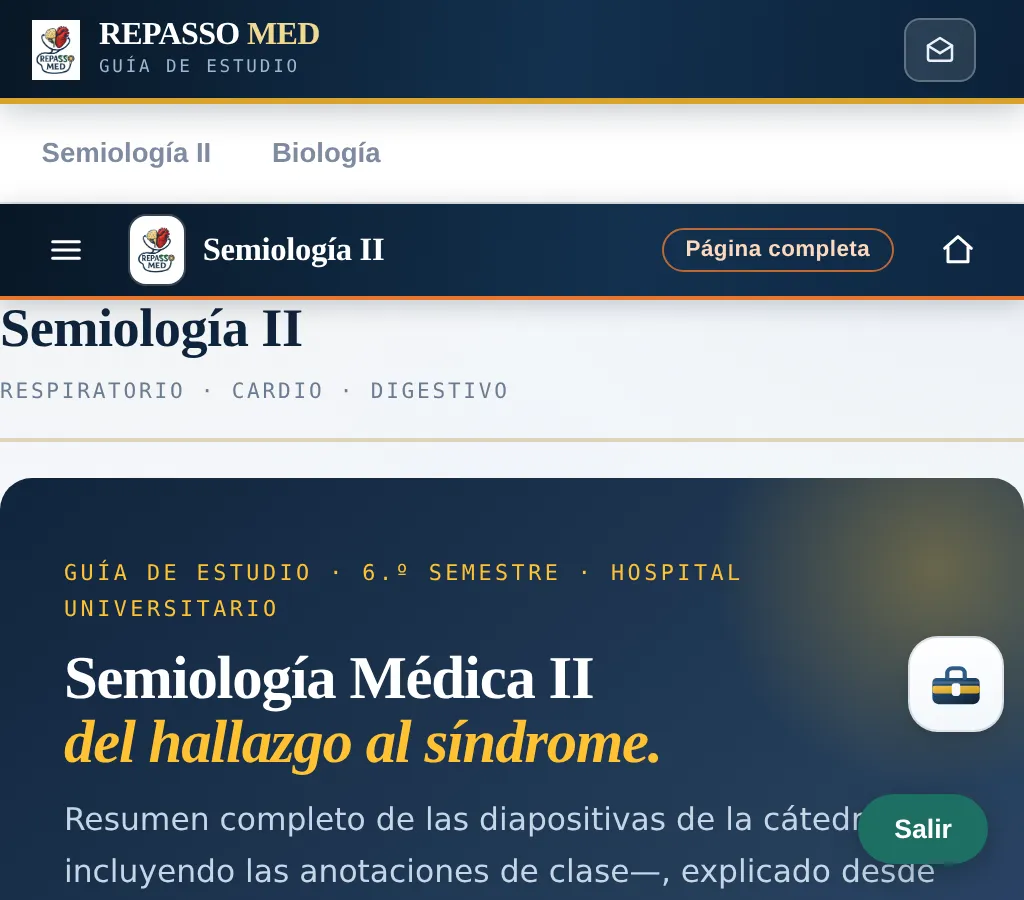
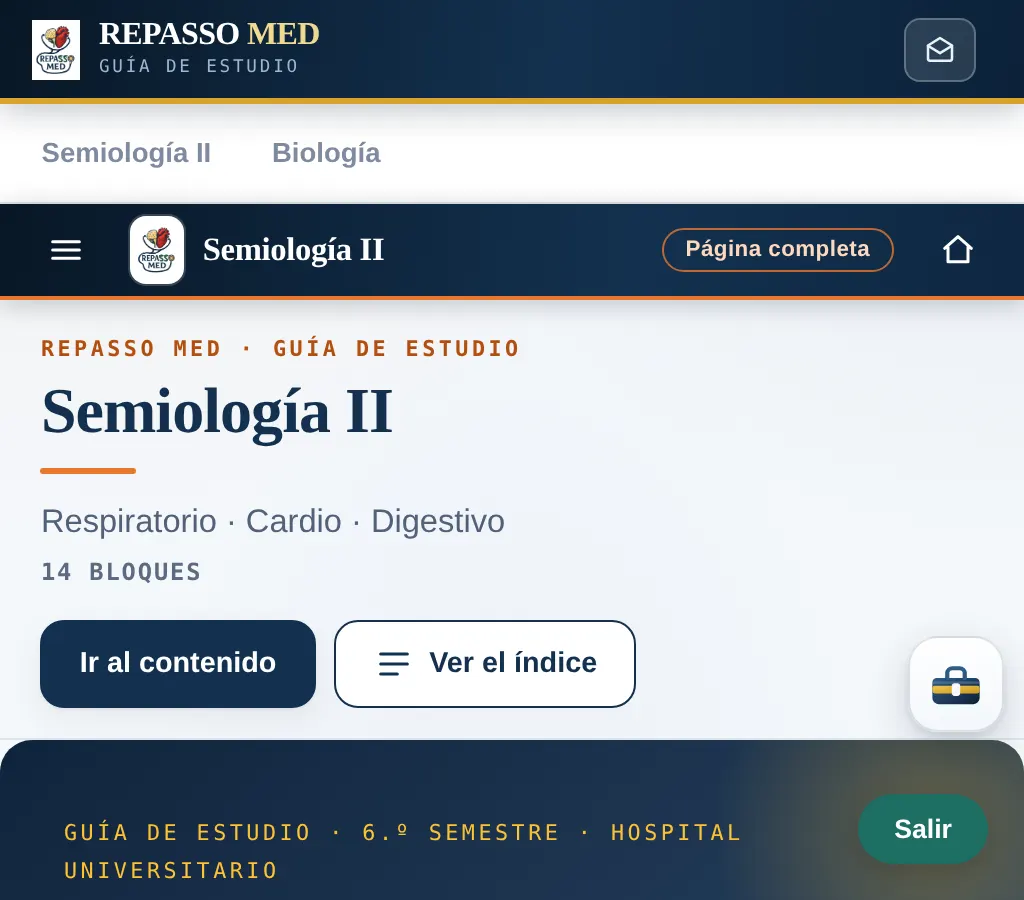
Layout V2 B1: capa da matéria e slot de arte em código, tokens navy/branco/laranja, lateral refinada; teste cover e capturas
Capa (h1 serifado, subtítulo, ações por teclado/mouse) no lugar do header gerado pelo app-core, fora de section[id] e sob [data-rm-ui]; slot hero vazio/oculto até haver arquivo (aspect-ratio reservado, object-fit, srcset, estados cargando/listo/error, 0 deslocamento). Sem ilustração improvisada, sem progresso/gamificação. cover.test.cjs 102/102.

Claude-Session: https://claude.ai/code/session_0128CZp51oRNeCJLjDtDJGUq

diff --git a/Repasso-Med-Site--main/Atual - Copia/assets/rm-layout.js b/Repasso-Med-Site--main/Atual - Copia/assets/rm-layout.js
@@ -414,6 +414,58 @@
     return { band: band, hamb: hamb, chip: chip, mat: mat };
   }
 
+  /* ------------------- capa da matéria + SLOTS de arte -------------------
+     A capa é CÓDIGO (HTML/CSS/JS): título, subtítulo, ações e o container da arte. Nada aqui é imagem de texto, e a ARTE FINAL
+     (banner/ilustração autoral da Semiología II) é produzida à parte e integrada depois: o slot só reserva o espaço.
+     SLOT `hero`: enquanto ASSETS.hero for null o container fica `hidden` (estado «vacío», 0 px, sem desenho improvisado);
+     quando houver arquivo, basta preencher o objeto — não é preciso reconstruir o layout:
+       ASSETS.hero = { src: 'assets/semio2/hero-1x.webp', srcset: 'assets/semio2/hero-1x.webp 1x, assets/semio2/hero-2x.webp 2x',
+                       w: 1600, h: 900, alt: 'texto alternativo', pos: '50% 40%' }
+     `w`/`h` reservam o espaço (aspect-ratio ⇒ 0 deslocamento ao carregar); `object-fit: cover` preserva a proporção (sem
+     deformar) e `pos` escolhe o recorte; `srcset` entrega nitidez em retina/tablet. Estados: cargando (esqueleto neutro) →
+     listo; error ⇒ o slot colapsa (sem ícone de imagem quebrada). Também dá para chamar RMLayout.setAsset('hero', spec). */
+  var ASSETS = { hero: null };
+
+  function renderArte(slot) {
+    if (!S || !S.arte) return;
+    var fig = S.arte, spec = ASSETS[slot];
+    while (fig.firstChild) fig.removeChild(fig.firstChild);
+    S.capa.classList.remove('has-art');
+    if (!spec || !spec.src) { fig.hidden = true; fig.setAttribute('data-state', 'vacio'); return; }
+    var w = +spec.w || 16, h = +spec.h || 9;
+    var frame = ui('div', 'rm-l2-art-frame'); frame.style.aspectRatio = w + ' / ' + h;
+    var im = ui('img', 'rm-l2-art-img', { alt: spec.deco ? '' : (spec.alt || ''), width: String(w), height: String(h), decoding: 'async', fetchpriority: 'high' });
+    if (spec.deco) im.setAttribute('role', 'presentation');
+    if (spec.pos) im.style.objectPosition = spec.pos;
+    if (spec.srcset) im.setAttribute('srcset', spec.srcset);
+    if (spec.sizes) im.setAttribute('sizes', spec.sizes);
+    fig.hidden = false; fig.setAttribute('data-state', 'cargando'); S.capa.classList.add('has-art');
+    var tok = S, listo = function () { if (S === tok && S.arte === fig) fig.setAttribute('data-state', 'listo'); };
+    im.addEventListener('load', listo);
+    im.addEventListener('error', function () { if (S === tok && S.arte === fig) { fig.hidden = true; fig.setAttribute('data-state', 'error'); S.capa.classList.remove('has-art'); } });
+    im.src = spec.src;
+    frame.appendChild(im); fig.appendChild(frame);
+    if (im.complete && im.naturalWidth > 0) listo();
+  }
+
+  function montarCapa(cat, bl) {
+    var capa = ui('div', 'rm-l2-cover', { role: 'region', 'aria-label': 'Presentación de la materia' });
+    var cuerpo = ui('div', 'rm-l2-cover-body');
+    var eb = ui('p', 'rm-l2-eyebrow'); eb.textContent = 'Repasso Med · Guía de estudio';
+    var h1 = ui('h1', 'rm-l2-cover-title'); h1.textContent = cat.title || 'Semiología II';
+    cuerpo.appendChild(eb); cuerpo.appendChild(h1);
+    if (cat.sub) { var sb = ui('p', 'rm-l2-cover-sub'); sb.textContent = cat.sub; cuerpo.appendChild(sb); }
+    var meta = ui('p', 'rm-l2-cover-meta'); meta.textContent = bl.length + ' bloques'; cuerpo.appendChild(meta);
+    var acc = ui('div', 'rm-l2-cover-actions');
+    var go = ui('button', 'rm-l2-btn rm-l2-btn-primary', { type: 'button', 'data-act': 'go' }); go.textContent = 'Ir al contenido';
+    var ix = ui('button', 'rm-l2-btn rm-l2-btn-ghost rm-l2-btn-idx', { type: 'button', 'data-act': 'idx' });
+    ix.appendChild(svg('index')); var il = el('span'); il.textContent = 'Ver el índice'; ix.appendChild(il);
+    acc.appendChild(go); acc.appendChild(ix); cuerpo.appendChild(acc);
+    var arte = ui('figure', 'rm-l2-art', { 'data-slot': 'hero', 'data-state': 'vacio' }); arte.hidden = true;
+    capa.appendChild(cuerpo); capa.appendChild(arte);
+    return { capa: capa, arte: arte };
+  }
+
   /* ------------------------------ lateral ------------------------------- */
   function item(icon, label, cls, attrs) {
     var b = ui('button', 'rm-l2-item ' + (cls || ''), Object.assign({ type: 'button', title: label }, attrs || {}));
@@ -620,6 +672,11 @@
       hamb: function () { if (S.drawer) fecharDrawer(); else abrirDrawer(); },
       back: function () { fecharDrawer(true); },
       mat: function () { try { window.scrollTo({ top: 0, behavior: 'smooth' }); } catch (x) { window.scrollTo(0, 0); } },
+      capa: function (e) {
+        var b = e.target && e.target.closest && e.target.closest('[data-act]'); if (!b || !S) return;
+        if (b.getAttribute('data-act') === 'go') { if (S.blocos[0]) irPara(S.blocos[0].sec); }
+        else if (b.getAttribute('data-act') === 'idx') { if (lmode() === 'docked') { S.lat.tog && S.lat.tog.focus(); } else abrirDrawer(); }
+      },
       raiz: function (e) { if (e.target.closest && e.target.closest('[data-view]')) window.RMModes.requestView('full'); }
     };
     S.side.addEventListener('click', S.h.lat);
@@ -627,6 +684,7 @@
     S.backdrop.addEventListener('click', S.h.back);
     S.mat.addEventListener('click', S.h.mat);
     S.rootEl.addEventListener('click', S.h.raiz);
+    S.capa.addEventListener('click', S.h.capa);
     window.addEventListener('resize', S.h.resize);
     window.addEventListener('orientationchange', S.h.resize);
     window.addEventListener('scroll', S.h.scroll, { passive: true });
@@ -642,6 +700,7 @@
     S.backdrop.removeEventListener('click', h.back);
     S.mat.removeEventListener('click', h.mat);
     S.rootEl.removeEventListener('click', h.raiz);
+    if (S.capa) S.capa.removeEventListener('click', h.capa);
     window.removeEventListener('resize', h.resize);
     window.removeEventListener('orientationchange', h.resize);
     window.removeEventListener('scroll', h.scroll);
@@ -668,6 +727,12 @@
     var lat = montarLateral(tab, bl); S.lat = lat; S.side = lat.side; S.railBtn = lat.railBtn;
     S.backdrop = ui('div', 'rm-l2-backdrop');
     var raiz = montarRaiz(); S.rootEl = raiz.root; S.titulo = raiz.titulo;
+    var cp = montarCapa(cat, bl); S.capa = cp.capa; S.arte = cp.arte;
+    var cab = tab.querySelector(':scope > .rm-subject-head');       // header gerado pelo app-core (não é conteúdo): a capa o substitui no piloto
+    if (cab && cab.parentNode) cab.parentNode.insertBefore(S.capa, cab.nextSibling);
+    else { var s1 = tab.querySelector('section'); (s1 ? s1.parentNode : tab).insertBefore(S.capa, s1 || tab.firstChild); }
+    ROOT.setAttribute('data-rm-cover', '');
+    renderArte('hero');
     S.player = ui('div', 'rm-l2-player', { id: 'rm-l2-player', role: 'region', 'aria-label': 'Audiobook', hidden: '' });   // slot futuro, 0 px
 
     var cont = document.getElementById('materias-container');
@@ -697,8 +762,8 @@
        por cima da matéria que o aluno está abrindo. O RMModes.detach() abaixo
        só zera o estado; a classe rm-l2 sai e o conteúdo reaparece sozinho. */
     desligar();
-    [S.band, S.ph, S.side, S.backdrop, S.rootEl, S.player].forEach(function (n) { if (n && n.parentNode) n.parentNode.removeChild(n); });
-    ['data-rm-lmode', 'data-rm-dock', 'data-rm-drawer'].forEach(function (a) { ROOT.removeAttribute(a); });
+    [S.band, S.ph, S.side, S.backdrop, S.rootEl, S.player, S.capa].forEach(function (n) { if (n && n.parentNode) n.parentNode.removeChild(n); });
+    ['data-rm-lmode', 'data-rm-dock', 'data-rm-drawer', 'data-rm-cover'].forEach(function (a) { ROOT.removeAttribute(a); });
     ROOT.style.removeProperty('--rm-band-bottom'); ROOT.style.removeProperty('--rm-band-top');
     ROOT.classList.remove('rm-l2');
     try { window.RMModes.detach(); } catch (e) {}
@@ -711,6 +776,8 @@
   window.RMLayout = {
     attach: attach,
     detach: detach,
+    ASSETS: ASSETS,                                          // slots de arte (hoje vazios): ver «capa da matéria + SLOTS de arte»
+    setAsset: function (slot, spec) { ASSETS[slot] = spec || null; renderArte(slot); },
     assentarTinta: assentarTinta,                            // usado por rm-modes.js ao voltar à Página completa
     pedirReposicao: function () { reposicionarTinta(); },    // idem: único caminho até RMToolsV2.reposicionar (coalescido, nunca durante o contato da caneta)
     /* só leitura, para teste/diagnóstico */

diff --git a/Repasso-Med-Site--main/Atual - Copia/assets/rm-layout.css b/Repasso-Med-Site--main/Atual - Copia/assets/rm-layout.css
@@ -28,8 +28,10 @@ html.rm-l2 {
   --rm-safe-b: env(safe-area-inset-bottom, 0px);
   --rm-band-top: 0px;                   /* medido por JS: topo da faixa na viewport */
   --rm-band-bottom: 44px;               /* medido por JS: fundo da faixa na viewport */
-  --l2-navy: #13314f; --l2-deep: #081726; --l2-gold: #d8a32a; --l2-orange: #e8772e; --l2-ink: #1b2b3d;
+  --l2-navy: #13314f; --l2-deep: #081726; --l2-gold: #d8a32a; --l2-orange: #e8772e; --l2-orange-ink: #b34e0f; --l2-ink: #1b2b3d; --l2-muted: #52627a;
   --l2-rule: #dde5ee; --l2-tint: #edf2f8;
+  /* sistema único de forma e sombra (cards, botões, slots): raio e elevação sutil iguais em todo o shell */
+  --l2-radius: 12px; --l2-shadow: 0 1px 2px rgba(8,23,38,.06), 0 6px 18px rgba(8,23,38,.06);
   --l2-fig: #2563a8; --l2-quiz: #b7791f; --l2-fc: #7c3aed; --l2-aud: #0f766e; --l2-vid: #c2410c;
 
   /* o site mede a altura fixa do topo por estas duas variáveis
@@ -128,7 +130,7 @@ html.rm-l2[data-rm-lmode="docked"] .rm-l2-hamb { display: none; }
   position: fixed; left: 0; top: var(--rm-band-bottom, 44px); bottom: 0;
   width: var(--rm-left-w); z-index: 360;
   display: flex; flex-direction: column; box-sizing: border-box; overflow: hidden;
-  background: #fff; border-right: 1px solid var(--l2-rule);
+  background: #fff; border-right: 1px solid var(--l2-rule); box-shadow: 6px 0 24px rgba(8,23,38,.035);
   font-family: var(--font-ui, system-ui, sans-serif); color: var(--l2-ink);
 }
 .rm-l2-side-head { flex: 0 0 auto; display: flex; justify-content: flex-end; padding: .25rem .35rem 0; }
@@ -227,7 +229,8 @@ html.rm-l2[data-rm-lmode="rail"] .rm-l2-side:not(.is-open) .rm-l2-side-head { ju
 
 /* foco visível em tudo */
 .rm-l2-band button:focus-visible, .rm-l2-side button:focus-visible, .rm-l2-side a:focus-visible,
-.rm-l2-mode-root button:focus-visible { outline: 3px solid #ffc233; outline-offset: 2px; }
+.rm-l2-mode-root button:focus-visible, .rm-l2-cover button:focus-visible { outline: 3px solid var(--l2-orange); outline-offset: 2px; }
+.rm-l2-band button:focus-visible { outline-color: #ffb27a; }   /* sobre o navy da faixa */
 
 /* ---------------------------------------------------------------------
    6 · MODOS ISOLADOS (B1: painel vazio) — fora da Página completa o
@@ -247,14 +250,74 @@ html.rm-l2[data-rm-view]:not([data-rm-view="full"]) #materias-container .rm-hl {
 html.rm-l2[data-rm-view]:not([data-rm-view="full"]) .rm-l2-tree { display: none; }
 
 .rm-l2-empty {
-  padding: 2rem 1.6rem; border: 1px dashed #b9c7d8; border-radius: 16px; background: #f8fafc; text-align: center;
+  padding: 2rem 1.6rem; border: 1px dashed #b9c7d8; border-radius: var(--l2-radius); background: #f8fafc; text-align: center;
   font-family: var(--font-ui, system-ui, sans-serif);
 }
 .rm-l2-empty-t { font: 800 1.35rem var(--font-display, Georgia, serif); color: var(--l2-navy); margin-bottom: .6rem; }
 .rm-l2-empty-p { color: #41505f; font-size: .95rem; line-height: 1.55; max-width: 34rem; margin: 0 auto 1.1rem; }
 .rm-l2-empty-back {
-  min-height: 44px; padding: 0 1.2rem; border: 0; border-radius: 12px; cursor: pointer;
-  background: linear-gradient(120deg, var(--l2-navy), #1d4a75); color: #fff; font: 700 .88rem var(--font-ui, system-ui, sans-serif);
+  min-height: 44px; padding: 0 1.2rem; border: 0; border-radius: var(--l2-radius); cursor: pointer;
+  background: var(--l2-navy); color: #fff; font: 700 .88rem var(--font-ui, system-ui, sans-serif);
+}
+
+/* ---------------------------------------------------------------------
+   9 · CAPA DA MATÉRIA + SLOT DE ARTE (código; a arte final vem de fora)
+       O header gerado pelo app-core (.rm-subject-head: só título e subtítulo, não é conteúdo) é substituído pela capa;
+       o hero escuro e todas as seções da matéria ficam intactos logo abaixo.
+   --------------------------------------------------------------------- */
+html.rm-l2[data-rm-cover] #materias-container > .tab-content > .rm-subject-head { display: none; }
+.rm-l2-cover {
+  box-sizing: border-box; max-width: 880px; margin: 0 auto;
+  padding: clamp(1.1rem, 3.2vw, 2rem) clamp(1rem, 4vw, 2rem) clamp(.9rem, 2vw, 1.4rem);
+  display: grid; grid-template-columns: minmax(0, 1fr); gap: 1.1rem 2rem; align-items: center;
+  font-family: var(--font-ui, system-ui, sans-serif); color: var(--l2-ink);
+  border-bottom: 1px solid var(--l2-rule);
+}
+.rm-l2-cover-body { min-width: 0; }
+.rm-l2-eyebrow { margin: 0 0 .55rem; font: 700 .68rem var(--font-mono, ui-monospace, monospace); letter-spacing: .16em; text-transform: uppercase; color: var(--l2-orange-ink); }
+.rm-l2-cover-title {
+  margin: 0; font: 800 clamp(2rem, 5.2vw, 2.9rem)/1.04 var(--font-display, Georgia, serif); letter-spacing: -.015em; color: var(--l2-navy);
+  overflow-wrap: anywhere;
+}
+.rm-l2-cover-title::after { content: ""; display: block; width: 48px; height: 3px; margin-top: .7rem; border-radius: 2px; background: var(--l2-orange); }
+.rm-l2-cover-sub { margin: .8rem 0 0; font: 500 1.02rem/1.45 var(--font-ui, system-ui, sans-serif); color: var(--l2-muted); }
+.rm-l2-cover-meta { margin: .35rem 0 0; font: 600 .74rem var(--font-mono, ui-monospace, monospace); letter-spacing: .08em; text-transform: uppercase; color: #5b6b80; }
+.rm-l2-cover-actions { display: flex; flex-wrap: wrap; gap: .6rem; margin-top: 1.1rem; }
+.rm-l2-btn {
+  display: inline-flex; align-items: center; justify-content: center; gap: .5rem; min-height: 44px; padding: 0 1.15rem; box-sizing: border-box;
+  border-radius: var(--l2-radius); border: 1.5px solid var(--l2-navy); cursor: pointer; font: 700 .9rem var(--font-ui, system-ui, sans-serif);
+  transition: background-color .15s, box-shadow .15s, transform .15s;
+}
+.rm-l2-btn-primary { background: var(--l2-navy); color: #fff; box-shadow: var(--l2-shadow); }
+.rm-l2-btn-primary:hover { background: #0e2740; }
+.rm-l2-btn-ghost { background: #fff; color: var(--l2-navy); }
+.rm-l2-btn-ghost:hover { background: var(--l2-tint); }
+.rm-l2-btn:active { transform: translateY(1px); }
+/* o índice já está à vista quando a lateral está docked */
+html.rm-l2[data-rm-lmode="docked"] .rm-l2-btn-idx { display: none; }
+
+/* slot de arte: reservado só quando existe arquivo (estado «vacío» = hidden = 0 px) */
+.rm-l2-art { margin: 0; min-width: 0; }
+.rm-l2-art[hidden] { display: none; }
+.rm-l2-art-frame {
+  position: relative; width: 100%; overflow: hidden; border-radius: var(--l2-radius); background: var(--l2-tint);
+  box-shadow: var(--l2-shadow); max-height: 340px;
+}
+.rm-l2-art-img { position: absolute; inset: 0; width: 100%; height: 100%; object-fit: cover; display: block; opacity: 0; transition: opacity .25s; }
+.rm-l2-art[data-state="listo"] .rm-l2-art-img { opacity: 1; }
+.rm-l2-art[data-state="cargando"] .rm-l2-art-frame { background: linear-gradient(100deg, var(--l2-tint) 30%, #f7f9fc 50%, var(--l2-tint) 70%); background-size: 220% 100%; }
+@media (prefers-reduced-motion: no-preference) {
+  .rm-l2-art[data-state="cargando"] .rm-l2-art-frame { animation: rm-l2-skel 1.4s linear infinite; }
+}
+@keyframes rm-l2-skel { from { background-position: 120% 0; } to { background-position: -120% 0; } }
+/* com arte: mobile = arte em cima do texto; ≥ 1000 px = duas colunas */
+.rm-l2-cover.has-art .rm-l2-art { order: -1; }
+@media (min-width: 1000px) {
+  .rm-l2-cover.has-art { grid-template-columns: minmax(0, 1.05fr) minmax(0, .95fr); }
+  .rm-l2-cover.has-art .rm-l2-art { order: 0; }
+}
+@media (max-width: 440px) {
+  .rm-l2-cover-actions .rm-l2-btn { flex: 1 1 100%; }
 }
 
 /* ---------------------------------------------------------------------

diff --git a/tools/qa/browser-qa/layout/README.md b/tools/qa/browser-qa/layout/README.md
@@ -111,3 +111,36 @@ antes de o pendente executar, E4 matéria sai antes de a caneta levantar) · F `
 H `irPara(A)→irPara(B)` (0 rolagens dirigidas a A depois do clique em B) · I `irPara()` → sair da matéria. 1440 e 390 (a caneta, só em
 1440). **Validado por mutação:** com o `rm-layout.js/rm-modes.js` do HEAD auditado `94006e54` o teste reprova com 50 falhas; com a
 correção, 107/107. Os eventos de caneta são **sintéticos** (`PointerEvent` `pointerType=pen`): provam o caminho de código, não o hardware.
+
+## Etapa 2 — capa da matéria + slot de arte + acabamento (tudo em código) — `cover.test.cjs`
+
+```bash
+export NODE_PATH=$(npm root -g)     # ou RM_PLAYWRIGHT=/caminho/do/modulo
+node tools/qa/browser-qa/layout/cover.test.cjs
+```
+**Divisão de responsabilidades:** o Layout (este código) cuida de estrutura, navegação, hierarquia, tipografia, cores, espaçamento,
+responsividade, estados, abertura/fechamento, posição das imagens e nitidez da UI — em HTML/CSS/JS, nada vira imagem. A arte autoral
+(banners/ilustrações da Semiología II) é produzida fora (ChatGPT → José → integração aqui). **Nenhuma ilustração foi criada.**
+
+- **Capa** (`.rm-l2-cover`, `[data-rm-ui]`, sem ids, filha da aba e irmã das seções — nunca dentro de `section[id]`): eyebrow «Repasso Med ·
+  Guía de estudio», `h1` serifado «Semiología II», subtítulo, «N bloques», ações «Ir al contenido» (1º bloco sob a faixa) e «Ver el
+  índice» (só quando a lateral não está docked). Substitui, no piloto, o `.rm-subject-head` gerado pelo app-core (mesmo título e
+  subtítulo); o hero de **conteúdo** da matéria e todas as seções ficam intactos. Em modo isolado a capa some; `detach()` a remove e
+  devolve o header original.
+- **Slot de arte `hero`** (`RMLayout.ASSETS.hero` / `RMLayout.setAsset('hero', spec)`): hoje **vazio e `hidden`** (0 px, sem caixa vazia nem
+  desenho improvisado). Com arquivo: `w`/`h` reservam o espaço (`aspect-ratio` ⇒ 0 deslocamento), `object-fit: cover` + `pos` (sem
+  deformar), `srcset`/`sizes` (retina/tablet), `fetchpriority=high`, estados `cargando` (esqueleto neutro) → `listo`; `error` (404) ⇒ colapsa.
+  ≥ 1000 px: duas colunas (arte à direita); abaixo: arte em cima do texto; altura máx. 340 px.
+- **Tokens únicos** (`--l2-radius`, `--l2-shadow`, navy/branco/laranja da marca; laranja-texto `#b34e0f` = 5,2:1 sobre branco) para capa, botões, slot e
+  painel de modos; foco visível laranja (navy sobre claro) e alvos ≥ 44 px. Sem progresso, percentual, streak, plano, calendário,
+  gamificação ou recomendação (verificado no teste).
+- Lateral (minimizável, trilho, drawer, hierarquia matéria → bloco → tema, Volver arriba, Sugerencias, Banco, Todos los flashcards):
+  **funcionalidade intacta** (suíte B1 176/176); só elevação sutil e foco.
+
+### Evidências — o que é o quê
+| | |
+|---|---|
+| **TESTADO AUTOMATICAMENTE** (Chromium emulado, harness real) | `cover` 102 · `race` 107 · `ink-jump` 54 · `layout` 183 · B1 176 (neutralidade de índice/IDs/125 highlights). 320 · 390 · 768 · 1024 · 1440 · 1600 · 1920, zoom 200 %, rotação, teclado (Enter/foco), contraste, slot (vazio/cargando/listo/erro, 0 deslocamento) |
+| **VALIDADO VISUALMENTE** (capturas desta pasta) | 320 · 390 · 768 · 1024 · 1440, zoom 200 % (1440 e 1024), dock 1495/1627/1700/1920, slot com imagem **sintética** (1440 e 390). Conferido por mim nas capturas, **sem** comparação com a referência do José (ver abaixo) |
+| **PENDENTE DE TESTE FÍSICO** (José, iPad/aparelho real) | safe-area (notch/home bar), teclado virtual, nitidez real em retina, rotação em hardware, toque/caneta/palma, fluidez com ~100 traços, imagens `lazy` reais, fontes de produção (as do Google não carregam no sandbox) |
+| **PENDENTE DE ASSET (ChatGPT → José)** | arte `hero` (banner/ilustração da Semiología II): preencher `RMLayout.ASSETS.hero` com `src/srcset/w/h/alt` |
